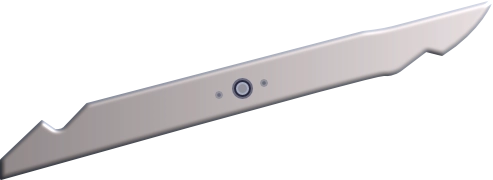
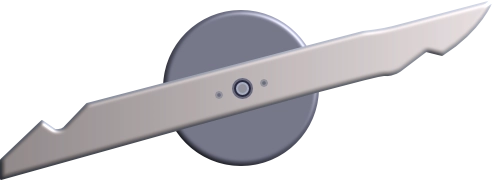
Fix blade

Changed region(s): [[0.3347, 0.5, 0.6694, 0.9444], [0.3043, 0.0556, 0.6389, 0.4722]]

diff --git a/components/PublicBottomNav.tsx b/components/PublicBottomNav.tsx
@@ -1,0 +1,41 @@
+"use client";
+
+import Link from "next/link";
+import { usePathname } from "next/navigation";
+import { Home, Tag, LogIn, UserPlus } from "lucide-react";
+import { cn } from "@/lib/utils";
+
+const ITEMS = [
+  { href: "/", label: "Home", icon: Home },
+  { href: "/pricing", label: "Pricing", icon: Tag },
+  { href: "/login", label: "Sign in", icon: LogIn },
+  { href: "/register", label: "Sign up", icon: UserPlus },
+];
+
+export function PublicBottomNav() {
+  const pathname = usePathname();
+  return (
+    <nav
+      className="sm:hidden fixed bottom-0 left-0 right-0 bg-white border-t flex justify-around py-2 z-10"
+      style={{ paddingBottom: "calc(0.5rem + env(safe-area-inset-bottom))" }}
+    >
+      {ITEMS.map(({ href, label, icon: Icon }) => {
+        const active =
+          pathname === href || (href !== "/" && pathname.startsWith(href));
+        return (
+          <Link
+            key={href}
+            href={href}
+            className={cn(
+              "flex flex-col items-center gap-0.5 text-xs px-3 py-1",
+              active ? "text-green-700" : "text-gray-500"
+            )}
+          >
+            <Icon className={cn("w-5 h-5", active && "stroke-[2.5]")} />
+            {label}
+          </Link>
+        );
+      })}
+    </nav>
+  );
+}